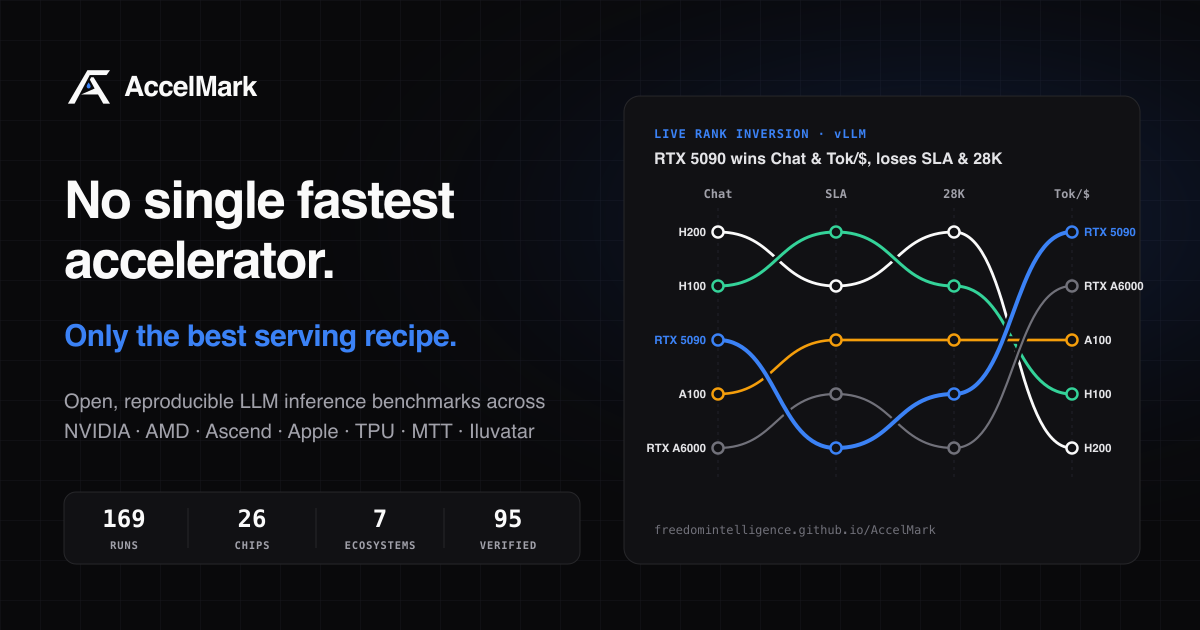
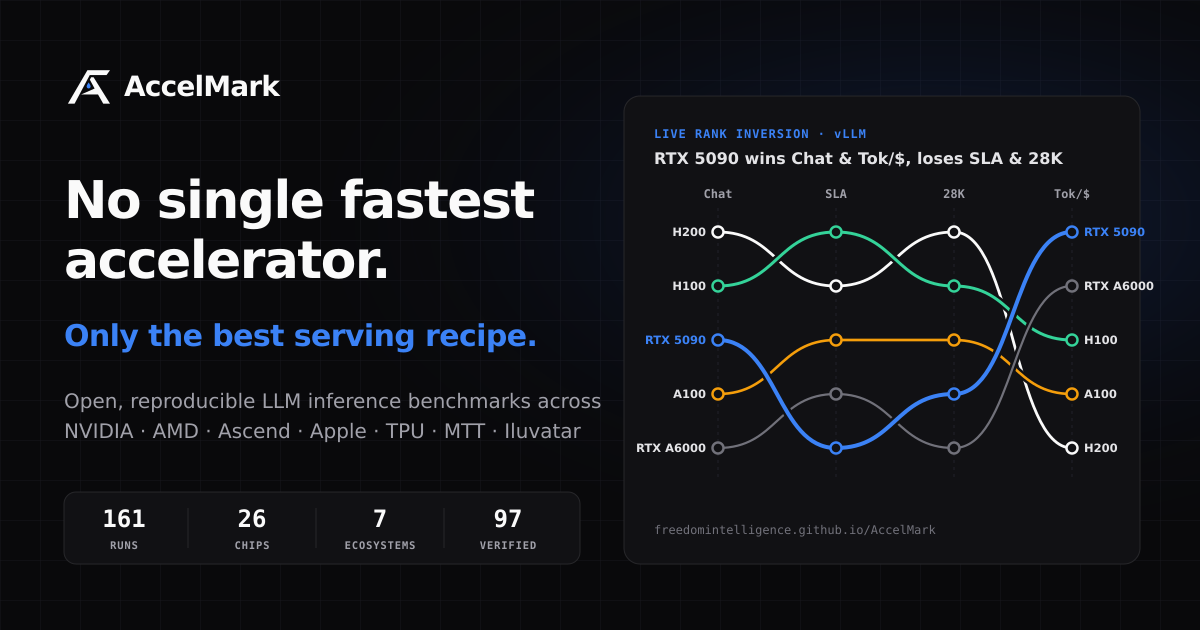
leaderboard: auto-update from 814c3dd9e00e28eb2a99f81bdf4f73121cb9aa0f 814c3dd9e00e28eb2a99f81bdf4f73121cb9aa0f

diff --git a/leaderboard.js b/leaderboard.js
@@ -3,5 +3,5 @@ const LEADERBOARD_DATA=[{"submission":"apple_m1x1_suite_F_apple_mlx_lm_9546b8b5_
 window.LEADERBOARD_DATA=LEADERBOARD_DATA;
 const SUITE_SPECS={"suite_A":{"model_id":"meta-llama/Meta-Llama-3-8B-Instruct","model_revision":"8afb486c1db24fe5011ec46dfbe5b5dccdb575c2","dataset":"sharegpt_standard_v1","precision_required":"BF16","allowed_precisions":["BF16","FP16"],"max_model_len":4096,"concurrency_levels":[8,32,128],"online_qps_levels":[5,25,100],"online_sla_ttft_ms":500,"input_tokens_p50":280,"output_tokens_p50":310,"scenarios_default":["accuracy","offline","online"],"scenarios_extra":["interactive","sustained","speculative","burst"]},"suite_B":{"model_id":"meta-llama/Meta-Llama-3-70B-Instruct","model_revision":"50fd307e57011801c7833c87efa1984ddf2db42f","dataset":"sharegpt_standard_v1","precision_required":"BF16","allowed_precisions":["BF16","FP16"],"max_model_len":4096,"concurrency_levels":[8,32,128],"online_qps_levels":[2,5,10,25],"online_sla_ttft_ms":1000,"input_tokens_p50":280,"output_tokens_p50":310,"scenarios_default":["accuracy","offline","online"],"scenarios_extra":["sustained","interactive","burst"]},"suite_C":{"model_id":"meta-llama/Llama-3.1-8B-Instruct","model_revision":"0e9e39f249a16976918f6564b8830bc894c89659","dataset":"sharegpt_standard_v1","precision_required":"BF16","allowed_precisions":["BF16","FP16"],"max_model_len":4096,"concurrency_levels":[1,4,16,64],"online_qps_levels":[5,10,25,50],"online_sla_ttft_ms":500,"scenarios_default":["accuracy","offline"],"scenarios_extra":["online","sustained"]},"suite_D":{"model_id":"meta-llama/Llama-3.1-8B-Instruct","model_revision":"0e9e39f249a16976918f6564b8830bc894c89659","dataset":"sharegpt_longctx_v1","precision_required":"BF16","allowed_precisions":["BF16","FP16"],"max_model_len":30208,"concurrency_levels":[1,4],"online_qps_levels":[0.5,1,2],"online_sla_ttft_ms":5000,"input_tokens_p50":28650,"output_tokens_p50":256,"scenarios_default":["accuracy","offline"],"scenarios_extra":["interactive","sustained","online"]},"suite_E":{"model_id":"meta-llama/Meta-Llama-3-8B-Instruct","model_revision":"8afb486c1db24fe5011ec46dfbe5b5dccdb575c2","dataset":"sharegpt_standard_v1","precision_required":"BF16","allowed_precisions":["BF16","FP16"],"max_model_len":4096,"concurrency_levels":[8,32,128],"input_tokens_p50":280,"output_tokens_p50":310,"scenarios_default":["accuracy","offline"]},"suite_F":{"model_id":"Qwen/Qwen2.5-0.5B-Instruct","model_revision":"7ae557604adf67be50417f59c2c2f167def9a775","dataset":"sharegpt_edge_v1","precision_required":"BF16","allowed_precisions":["FP16","BF16"],"max_model_len":2048,"concurrency_levels":[4,16,64],"online_qps_levels":[10,40],"online_sla_ttft_ms":500,"input_tokens_p50":95,"output_tokens_p50":150,"scenarios_default":["accuracy","offline","online","interactive"],"scenarios_extra":["sustained"]},"suite_G":{"model_id":"mistralai/Mixtral-8x7B-Instruct-v0.1","model_revision":"eba92302a2861cdc0098cc54bc9f17cb2c47eb61","dataset":"sharegpt_standard_v1","precision_required":"BF16","allowed_precisions":["BF16","FP16"],"max_model_len":4096,"concurrency_levels":[4,16,64],"online_qps_levels":[2,10,40],"online_sla_ttft_ms":500,"input_tokens_p50":280,"output_tokens_p50":310,"scenarios_default":["accuracy","offline","online"],"scenarios_extra":["interactive","sustained"]},"suite_H":{"model_id":"mistralai/Mistral-7B-Instruct-v0.1","model_revision":"26bca36bde8333b5d7f72e9ed20ccda6a618af24","dataset":"sharegpt_swa_v1","precision_required":"BF16","allowed_precisions":["BF16","FP16"],"max_model_len":32768,"concurrency_levels":[8,32,128],"online_qps_levels":[5,25,100],"online_sla_ttft_ms":500,"input_tokens_p50":10000,"output_tokens_p50":256,"scenarios_default":["accuracy","offline","online"],"scenarios_extra":["interactive","sustained","burst"]}};
 window.SUITE_SPECS=SUITE_SPECS;
-const DATASET_META={"version":"2026.11.26","generated_at":"2026-11-26T09:51:50Z","runs":161,"chips":26,"vendors":6,"suites":8,"verified":97};
+const DATASET_META={"version":"2026.11.26","generated_at":"2026-11-26T13:26:52Z","runs":161,"chips":26,"vendors":6,"suites":8,"verified":97};
 window.DATASET_META=DATASET_META;

diff --git a/index.html b/index.html
@@ -16,7 +16,9 @@
   <meta name="twitter:image" content="https://freedomintelligence.github.io/AccelMark/og-image.png">
   <meta name="theme-color" content="#09090b" media="(prefers-color-scheme: dark)">
   <meta name="theme-color" content="#ffffff" media="(prefers-color-scheme: light)">
-  <link rel="icon" type="image/svg+xml" href="favicon.svg">
+  <link rel="icon" type="image/svg+xml" href="favicon.svg?v=2">
+  <link rel="icon" type="image/png" sizes="32x32" href="favicon-32.png?v=2">
+  <link rel="apple-touch-icon" sizes="180x180" href="apple-touch-icon.png?v=2">
   <script>
   // Theme bootstrap (zero flash)
   (function(){
@@ -168,7 +170,7 @@
   </footer>
 
   <!-- Generated by leaderboard/generate.py -->
-  <script src="leaderboard.js?v=bea03d26"></script>
+  <script src="leaderboard.js?v=32e86148"></script>
   <script src="distribution.js?v=9c108d15"></script>
   <script src="assets/js/i18n.js?v=20261126b"></script>
   <script>

diff --git a/docs/404.html b/docs/404.html
@@ -16,7 +16,7 @@
         
       
       
-      <link rel="icon" href="/AccelMark/docs/assets/logo.svg">
+      <link rel="icon" href="/AccelMark/docs/assets/favicon.svg">
       <meta name="generator" content="mkdocs-1.6.1, mkdocs-material-9.8.2">
     
     

diff --git a/docs/getting-started/first-submission/index.html b/docs/getting-started/first-submission/index.html
@@ -22,7 +22,7 @@
         
       
       
-      <link rel="icon" href="../../assets/logo.svg">
+      <link rel="icon" href="../../assets/favicon.svg">
       <meta name="generator" content="mkdocs-1.6.1, mkdocs-material-9.8.2">
     
     

diff --git a/docs/getting-started/install/index.html b/docs/getting-started/install/index.html
@@ -22,7 +22,7 @@
         
       
       
-      <link rel="icon" href="../../assets/logo.svg">
+      <link rel="icon" href="../../assets/favicon.svg">
       <meta name="generator" content="mkdocs-1.6.1, mkdocs-material-9.8.2">
     
     

diff --git a/docs/guides/add-a-runner/index.html b/docs/guides/add-a-runner/index.html
@@ -22,7 +22,7 @@
         
       
       
-      <link rel="icon" href="../../assets/logo.svg">
+      <link rel="icon" href="../../assets/favicon.svg">
       <meta name="generator" content="mkdocs-1.6.1, mkdocs-material-9.8.2">
     
     

diff --git a/docs/guides/api-and-advisor/index.html b/docs/guides/api-and-advisor/index.html
@@ -22,7 +22,7 @@
         
       
       
-      <link rel="icon" href="../../assets/logo.svg">
+      <link rel="icon" href="../../assets/favicon.svg">
       <meta name="generator" content="mkdocs-1.6.1, mkdocs-material-9.8.2">
     
     

diff --git a/docs/guides/multi-chip-and-scaling/index.html b/docs/guides/multi-chip-and-scaling/index.html
@@ -22,7 +22,7 @@
         
       
       
-      <link rel="icon" href="../../assets/logo.svg">
+      <link rel="icon" href="../../assets/favicon.svg">
       <meta name="generator" content="mkdocs-1.6.1, mkdocs-material-9.8.2">
     
     

diff --git a/docs/guides/reproduce-a-result/index.html b/docs/guides/reproduce-a-result/index.html
@@ -22,7 +22,7 @@
         
       
       
-      <link rel="icon" href="../../assets/logo.svg">
+      <link rel="icon" href="../../assets/favicon.svg">
       <meta name="generator" content="mkdocs-1.6.1, mkdocs-material-9.8.2">
     
     

diff --git a/docs/guides/submit-without-git/index.html b/docs/guides/submit-without-git/index.html
@@ -22,7 +22,7 @@
         
       
       
-      <link rel="icon" href="../../assets/logo.svg">
+      <link rel="icon" href="../../assets/favicon.svg">
       <meta name="generator" content="mkdocs-1.6.1, mkdocs-material-9.8.2">
     
     

diff --git a/docs/reference/cli/index.html b/docs/reference/cli/index.html
@@ -22,7 +22,7 @@
         
       
       
-      <link rel="icon" href="../../assets/logo.svg">
+      <link rel="icon" href="../../assets/favicon.svg">
       <meta name="generator" content="mkdocs-1.6.1, mkdocs-material-9.8.2">
     
     

diff --git a/docs/reference/glossary/index.html b/docs/reference/glossary/index.html
@@ -22,7 +22,7 @@
         
       
       
-      <link rel="icon" href="../../assets/logo.svg">
+      <link rel="icon" href="../../assets/favicon.svg">
       <meta name="generator" content="mkdocs-1.6.1, mkdocs-material-9.8.2">
     
     
